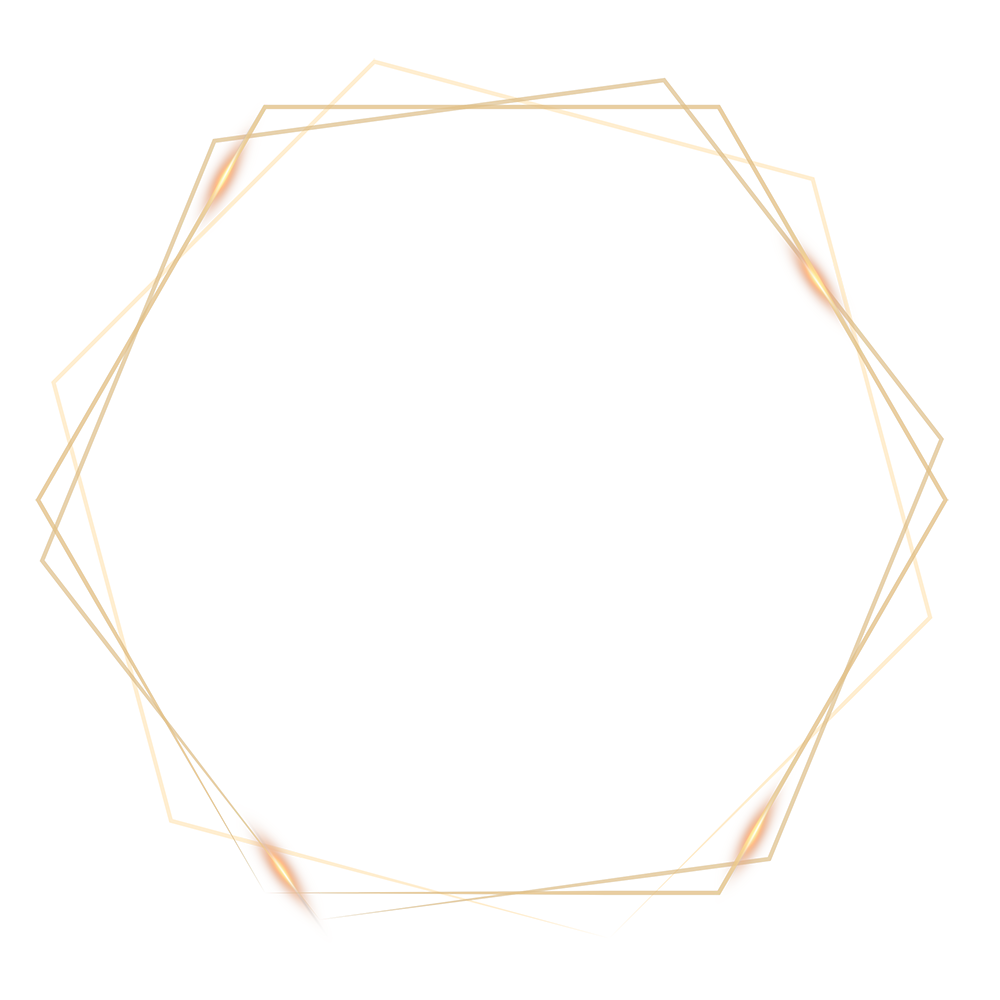
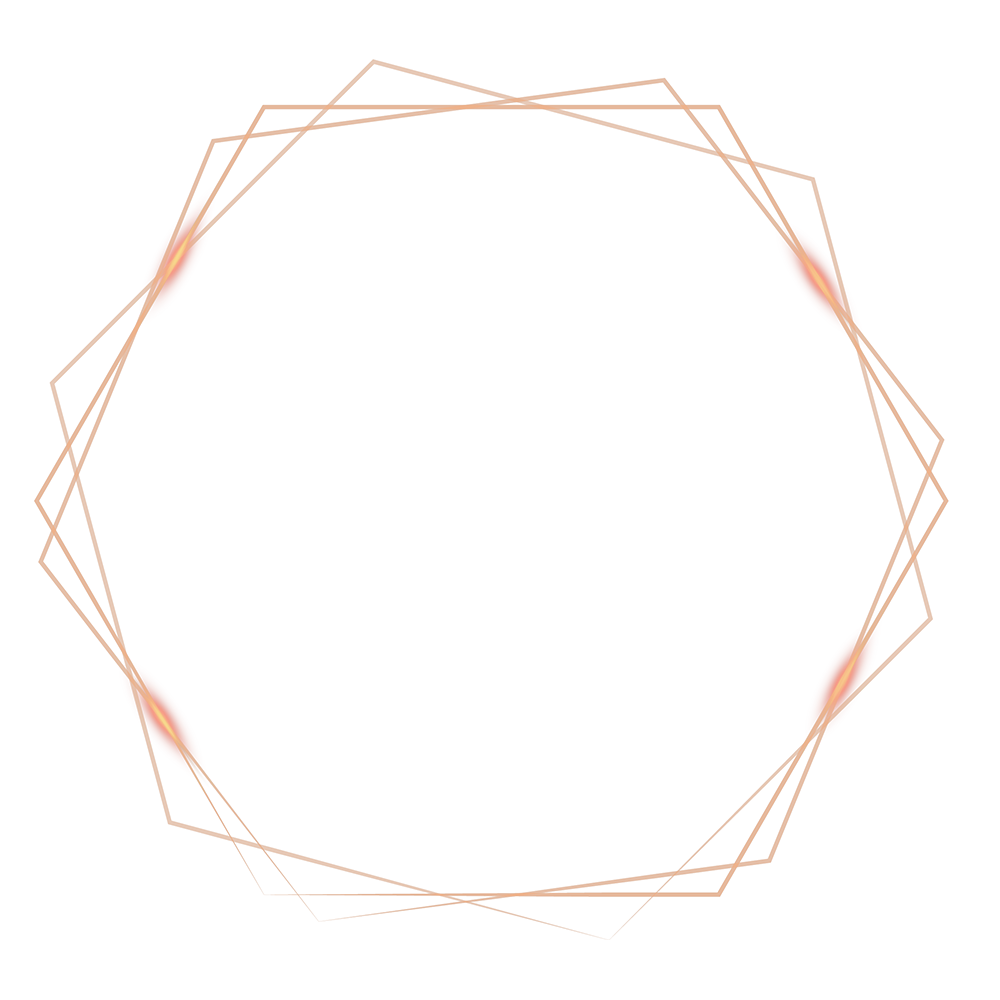
page 1 images changed

diff --git a/app.js b/app.js
@@ -222,7 +222,7 @@ eval("__webpack_require__.r(__webpack_exports__);\n/* harmony export */ __webpac
 /***/ ((__unused_webpack_module, __webpack_exports__, __webpack_require__) => {
 
 "use strict";
-eval("__webpack_require__.r(__webpack_exports__);\n/* harmony export */ __webpack_require__.d(__webpack_exports__, {\n/* harmony export */   \"default\": () => (__WEBPACK_DEFAULT_EXPORT__)\n/* harmony export */ });\n/* harmony import */ var app_debug_js__WEBPACK_IMPORTED_MODULE_0__ = __webpack_require__(/*! app/debug.js */ \"./app/debug.js\");\n/* harmony import */ var app_constants_js__WEBPACK_IMPORTED_MODULE_1__ = __webpack_require__(/*! app/constants.js */ \"./app/constants.js\");\n/* harmony import */ var app_utils__WEBPACK_IMPORTED_MODULE_2__ = __webpack_require__(/*! app/utils */ \"./app/utils/index.js\");\n/* harmony import */ var app_resource_loader__WEBPACK_IMPORTED_MODULE_3__ = __webpack_require__(/*! app/resource-loader */ \"./app/resource-loader/index.js\");\n/* harmony import */ var app_canvascontrol_js__WEBPACK_IMPORTED_MODULE_4__ = __webpack_require__(/*! app/canvascontrol.js */ \"./app/canvascontrol.js\");\n/* harmony import */ var _firework_js__WEBPACK_IMPORTED_MODULE_5__ = __webpack_require__(/*! ./firework.js */ \"./app/stages/01-intro/firework.js\");\n/* harmony import */ var app_canvas_widgets_button_js__WEBPACK_IMPORTED_MODULE_6__ = __webpack_require__(/*! app/canvas-widgets/button.js */ \"./app/canvas-widgets/button.js\");\n\n\n\n\n\n\n\n\n\n\n\nconst event_of = __webpack_require__(/*! app/events.js */ \"./app/events.js\");\n\n//////////////////////////////////////////////////////////////////////////////\n\nclass IntroCanvasController extends app_canvascontrol_js__WEBPACK_IMPORTED_MODULE_4__[\"default\"] {\n\n    constructor({canvas, images, bgcontroller, callback}){\n        super(canvas);\n\n        this.fwcontroller = new _firework_js__WEBPACK_IMPORTED_MODULE_5__[\"default\"](canvas, this.ctx);\n\n        this.callback = callback;\n        this.images = images;\n        this.bgcontroller = bgcontroller;\n\n        this.rot_center_x = this.canvas.width * 0.5;\n        this.rot_center_y = this.canvas.width * 0.7;\n        this.glow_center_x = this.canvas.width * 0.5;\n        this.glow_center_y = this.canvas.width * 0.75;\n        this.logo_center_x = this.canvas.width * 0.46;\n        this.logo_center_y = this.canvas.width * 0.755;\n        this.slogan_center_x = this.canvas.width * 0.5;\n        this.slogan_center_y = this.canvas.height*0.25+this.canvas.width * 0.87;\n        this.button_center_x = this.canvas.width * 0.5;\n        this.button_center_y = this.canvas.height * 0.5 + this.canvas.width * 0.6;\n\n        \n        this.scale_introtitle = this.canvas.width / this.images[\"introtitle\"].width * 0.75;\n//      this.scale_glow = Math.min(0.925 * this.canvas.width, 0.40 * this.canvas.height) / this.images[\"glow\"].width;\n        this.scale_glow = this.canvas.width / this.images[\"glow\"].width;\n//        console.log(this.scale_glow);\n        this.scale_hex_bold = this.canvas.width / this.images[\"hex-bold\"].width * 0.925;\n        this.scale_hex_thin = this.canvas.width / this.images[\"hex-thin\"].width * 0.925;\n        this.scale_slogan = this.canvas.width / this.images[\"slogan\"].width * 0.6;\n        this.scale_button = this.canvas.width / this.images[\"button\"].width * 0.3;\n\n        this.button = new app_canvas_widgets_button_js__WEBPACK_IMPORTED_MODULE_6__[\"default\"]({\n            image: this.images[\"button\"],\n            image_pressed_down: this.images[\"button-down\"],\n            x0: this.button_center_x - this.scale_button * this.images[\"button\"].width / 2,\n            y0: this.button_center_y - this.scale_button * this.images[\"button\"].height / 2,\n            x1: this.button_center_x + this.scale_button * this.images[\"button\"].width / 2,\n            y1: this.button_center_y + this.scale_button * this.images[\"button\"].height / 2,\n        });\n\n        const self = this;\n/*        function add_firework(){\n            self.fwcontroller.add_firework(\n                utils.random_range(0, self.canvas.width),\n                utils.random_range(0, self.canvas.height)\n            );\n            if(!self.destroyed){\n                setTimeout(add_firework, utils.random_range(100, 1000));\n            }\n        }\n        add_firework();*/\n    }\n\n    _draw_bg({ stars_alpha= 1.0 }){\n        const stars = this.images[\"stars\"];\n        this.ctx.drawImage(\n            this.bgcontroller.bgimg,\n            0,  // sx = 0\n            this.bgcontroller.get_y(), // sy = whatever\n            this.bgcontroller.bgimg.width, // sWidth\n            this.bgcontroller.unit_height, // sHeight\n            0,  // dx = 0\n            0,  // dy = 0\n            this.canvas.width,\n            this.canvas.height\n        );\n        this.ctx.globalAlpha = stars_alpha;\n        this.ctx.drawImage(\n            stars,\n            0, // dx\n            -this.bgcontroller.get_y(), // dy\n            this.canvas.width,\n            this.canvas.width/stars.width * stars.height\n        );\n        this.ctx.globalAlpha = 1;\n    }\n\n    exit_animation_frame(t){\n        if(undefined === this.exit_frame_t0) this.exit_frame_t0 = t;\n        const elapsed_time = t - this.exit_frame_t0;\n        const Tmax = app_constants_js__WEBPACK_IMPORTED_MODULE_1__[\"default\"].BACKGROUND_SWITCH_DURATION;\n\n        // clear whole canvas\n        this.ctx_clearall();\n        // draw bg\n        this._draw_bg({ stars_alpha: 1- elapsed_time / Tmax });\n\n        return elapsed_time < app_constants_js__WEBPACK_IMPORTED_MODULE_1__[\"default\"].BACKGROUND_SWITCH_DURATION;\n    }\n    \n\n    animation_frame(t, dt){\n        if(!this.flag_animation_playing) return;\n\n        const elapsed_time = t; //new Date().getTime() - this.starttime;\n        const rotation = elapsed_time / 1000 * 0.8;\n\n        // clear whole canvas\n        this.ctx_clearall();\n        // draw bg\n        this._draw_bg({});\n\n        this.ctx_drawImage(\n            this.images[\"glow\"],\n            this.glow_center_x,\n            this.glow_center_y,\n            this.scale_glow,\n            0\n        );\n        this.ctx_reset_transform();\n\n\n        this.ctx_drawImage(\n            this.images[\"hex-thin\"],\n            this.rot_center_x,\n            this.rot_center_y,\n            this.scale_hex_thin,\n            -rotation\n        );\n        this.ctx_reset_transform();\n    \n        this.ctx_drawImage(\n            this.images[\"hex-bold\"],\n            this.rot_center_x,\n            this.rot_center_y,\n            this.scale_hex_bold,\n            rotation\n        );\n        this.ctx_reset_transform();\n\n\n\n\n        this.ctx_drawImage(\n            this.images[\"introtitle\"],\n            this.logo_center_x,\n            this.logo_center_y,\n            this.scale_introtitle,\n            0\n        );\n        this.ctx_reset_transform();\n\n        this.ctx_drawImage(\n            this.images[\"slogan\"],\n            this.slogan_center_x,\n            this.slogan_center_y,\n            this.scale_slogan,\n            0\n        );\n        this.ctx_reset_transform();\n\n\n        this.button.draw(this.ctx);\n/*        this.ctx_drawImage(\n            this.images[\"button\"],\n            this.button_center_x,\n            this.button_center_y,\n            this.scale_button,\n            0\n        );*/\n        this.ctx_reset_transform();\n\n\n//        this.rotation += 0.005;\n\n        //this.fwcontroller.animation_frame(t, dt);\n        \n\n        return true;\n    }\n\n    bind_events(){\n\n        const ec = event_of(\"canvas\");\n\n        ec.on(\"touchstart\", (e)=>{\n//            this.callback();\n            e.preventDefault();\n        });\n\n        this.button.on(\"pressed\", (e)=>{\n            this.callback()\n            e.preventDefault();\n            e.stopPropagation();\n        });\n\n    }\n}\n\n\n\n\n\n\n//////////////////////////////////////////////////////////////////////////////\n\n\nasync function interaction({\n    canvas,\n    callback,\n    bgcontroller,\n    app\n}){\n    bgcontroller.scroll_to_stage(0);\n   \n    const images = {\n        \"hex-bold\": await (0,app_resource_loader__WEBPACK_IMPORTED_MODULE_3__.get_image)(\"hex_bold\"),\n        \"hex-thin\": await (0,app_resource_loader__WEBPACK_IMPORTED_MODULE_3__.get_image)(\"hex_thin\"),\n        \"glow\": await (0,app_resource_loader__WEBPACK_IMPORTED_MODULE_3__.get_image)(\"glow\"),\n\n        \"stars\": await (0,app_resource_loader__WEBPACK_IMPORTED_MODULE_3__.get_image)(\"intro_stars\"),\n        \"introtitle\": await (0,app_resource_loader__WEBPACK_IMPORTED_MODULE_3__.get_image)(\"intro_title\"),\n        \"slogan\": await (0,app_resource_loader__WEBPACK_IMPORTED_MODULE_3__.get_image)(\"intro_slogan\"),\n        \"button\": await (0,app_resource_loader__WEBPACK_IMPORTED_MODULE_3__.get_image)(\"intro_button\"),\n        \"button-down\": await (0,app_resource_loader__WEBPACK_IMPORTED_MODULE_3__.get_image)(\"intro_button_pressed\"),\n    };\n    const canvascontrol = new IntroCanvasController({\n        canvas,\n        images,\n        bgcontroller,\n        callback\n    });\n    canvascontrol.start_animation();\n\n///////////////\n    if((0,app_debug_js__WEBPACK_IMPORTED_MODULE_0__[\"default\"])()){\n        if((0,app_debug_js__WEBPACK_IMPORTED_MODULE_0__[\"default\"])('stage') && (0,app_debug_js__WEBPACK_IMPORTED_MODULE_0__[\"default\"])('stage') > 1){\n            callback();\n        }\n    }\n//////////////\n\n    await app_utils__WEBPACK_IMPORTED_MODULE_2__[\"default\"].until(()=>app.intro_done === true);\n\n    bgcontroller.scroll_to_stage(1);\n    await canvascontrol.destroy();\n\n}\n\n\n\n\n//////////////////////////////////////////////////////////////////////////////\n/* harmony default export */ const __WEBPACK_DEFAULT_EXPORT__ = ({\n    interaction,\n});\n\n\n//# sourceURL=webpack://csaegress-h5-app/./app/stages/01-intro/index.js?");
+eval("__webpack_require__.r(__webpack_exports__);\n/* harmony export */ __webpack_require__.d(__webpack_exports__, {\n/* harmony export */   \"default\": () => (__WEBPACK_DEFAULT_EXPORT__)\n/* harmony export */ });\n/* harmony import */ var app_debug_js__WEBPACK_IMPORTED_MODULE_0__ = __webpack_require__(/*! app/debug.js */ \"./app/debug.js\");\n/* harmony import */ var app_constants_js__WEBPACK_IMPORTED_MODULE_1__ = __webpack_require__(/*! app/constants.js */ \"./app/constants.js\");\n/* harmony import */ var app_utils__WEBPACK_IMPORTED_MODULE_2__ = __webpack_require__(/*! app/utils */ \"./app/utils/index.js\");\n/* harmony import */ var app_resource_loader__WEBPACK_IMPORTED_MODULE_3__ = __webpack_require__(/*! app/resource-loader */ \"./app/resource-loader/index.js\");\n/* harmony import */ var app_canvascontrol_js__WEBPACK_IMPORTED_MODULE_4__ = __webpack_require__(/*! app/canvascontrol.js */ \"./app/canvascontrol.js\");\n/* harmony import */ var _firework_js__WEBPACK_IMPORTED_MODULE_5__ = __webpack_require__(/*! ./firework.js */ \"./app/stages/01-intro/firework.js\");\n/* harmony import */ var app_canvas_widgets_button_js__WEBPACK_IMPORTED_MODULE_6__ = __webpack_require__(/*! app/canvas-widgets/button.js */ \"./app/canvas-widgets/button.js\");\n\n\n\n\n\n\n\n\n\n\n\nconst event_of = __webpack_require__(/*! app/events.js */ \"./app/events.js\");\n\n//////////////////////////////////////////////////////////////////////////////\n\nclass IntroCanvasController extends app_canvascontrol_js__WEBPACK_IMPORTED_MODULE_4__[\"default\"] {\n\n    constructor({canvas, images, bgcontroller, callback}){\n        super(canvas);\n\n        this.fwcontroller = new _firework_js__WEBPACK_IMPORTED_MODULE_5__[\"default\"](canvas, this.ctx);\n\n        this.callback = callback;\n        this.images = images;\n        this.bgcontroller = bgcontroller;\n\n        this.rot_center_x = this.canvas.width * 0.5;\n        this.rot_center_y = this.canvas.width * 0.7;\n        this.glow_center_x = this.canvas.width * 0.4580;\n        this.glow_center_y = this.canvas.width * 0.7450;\n        this.logo_center_x = this.canvas.width * 0.45;\n        this.logo_center_y = this.canvas.width * 0.755;\n        this.slogan_center_x = this.canvas.width * 0.5;\n        this.slogan_center_y = this.canvas.height*0.25+this.canvas.width * 0.87;\n        this.button_center_x = this.canvas.width * 0.5;\n        this.button_center_y = this.canvas.height * 0.4571 + 0.6314 *this.canvas.width;\n\n        \n        this.scale_introtitle = this.canvas.width / this.images[\"introtitle\"].width * 0.75;\n//      this.scale_glow = Math.min(0.925 * this.canvas.width, 0.40 * this.canvas.height) / this.images[\"glow\"].width;\n        this.scale_glow = this.canvas.width / this.images[\"glow\"].width * 1.5830;\n//        console.log(this.scale_glow);\n        this.scale_hex_bold = this.canvas.width / this.images[\"hex-bold\"].width * 0.926;\n        this.scale_hex_thin = this.canvas.width / this.images[\"hex-thin\"].width * 0.926;\n        this.scale_slogan = this.canvas.width / this.images[\"slogan\"].width * 0.6;\n        this.scale_button = this.canvas.width / this.images[\"button\"].width * 0.3;\n\n        this.button = new app_canvas_widgets_button_js__WEBPACK_IMPORTED_MODULE_6__[\"default\"]({\n            image: this.images[\"button\"],\n            image_pressed_down: this.images[\"button-down\"],\n            x0: this.button_center_x - this.scale_button * this.images[\"button\"].width / 2,\n            y0: this.button_center_y - this.scale_button * this.images[\"button\"].height / 2,\n            x1: this.button_center_x + this.scale_button * this.images[\"button\"].width / 2,\n            y1: this.button_center_y + this.scale_button * this.images[\"button\"].height / 2,\n        });\n\n        const self = this;\n/*        function add_firework(){\n            self.fwcontroller.add_firework(\n                utils.random_range(0, self.canvas.width),\n                utils.random_range(0, self.canvas.height)\n            );\n            if(!self.destroyed){\n                setTimeout(add_firework, utils.random_range(100, 1000));\n            }\n        }\n        add_firework();*/\n    }\n\n    _draw_bg({ stars_alpha= 1.0 }){\n        const stars = this.images[\"stars\"];\n        this.ctx.drawImage(\n            this.bgcontroller.bgimg,\n            0,  // sx = 0\n            this.bgcontroller.get_y(), // sy = whatever\n            this.bgcontroller.bgimg.width, // sWidth\n            this.bgcontroller.unit_height, // sHeight\n            0,  // dx = 0\n            0,  // dy = 0\n            this.canvas.width,\n            this.canvas.height\n        );\n        this.ctx.globalAlpha = stars_alpha;\n        this.ctx.drawImage(\n            stars,\n            0, // dx\n            -this.bgcontroller.get_y(), // dy\n            this.canvas.width,\n            this.canvas.width/stars.width * stars.height\n        );\n        this.ctx.globalAlpha = 1;\n    }\n\n    exit_animation_frame(t){\n        if(undefined === this.exit_frame_t0) this.exit_frame_t0 = t;\n        const elapsed_time = t - this.exit_frame_t0;\n        const Tmax = app_constants_js__WEBPACK_IMPORTED_MODULE_1__[\"default\"].BACKGROUND_SWITCH_DURATION;\n\n        // clear whole canvas\n        this.ctx_clearall();\n        // draw bg\n        this._draw_bg({ stars_alpha: 1- elapsed_time / Tmax });\n\n        return elapsed_time < app_constants_js__WEBPACK_IMPORTED_MODULE_1__[\"default\"].BACKGROUND_SWITCH_DURATION;\n    }\n    \n\n    animation_frame(t, dt){\n        if(!this.flag_animation_playing) return;\n\n        const elapsed_time = t; //new Date().getTime() - this.starttime;\n        const rotation = elapsed_time / 1000 * 0.8;\n\n        // clear whole canvas\n        this.ctx_clearall();\n        // draw bg\n        this._draw_bg({});\n\n        this.ctx_drawImage(\n            this.images[\"glow\"],\n            this.glow_center_x,\n            this.glow_center_y,\n            this.scale_glow,\n            0\n        );\n        this.ctx_reset_transform();\n\n\n        this.ctx_drawImage(\n            this.images[\"hex-thin\"],\n            this.rot_center_x,\n            this.rot_center_y,\n            this.scale_hex_thin,\n            -rotation\n        );\n        this.ctx_reset_transform();\n    \n        this.ctx_drawImage(\n            this.images[\"hex-bold\"],\n            this.rot_center_x,\n            this.rot_center_y,\n            this.scale_hex_bold,\n            rotation\n        );\n        this.ctx_reset_transform();\n\n\n\n\n        this.ctx_drawImage(\n            this.images[\"introtitle\"],\n            this.logo_center_x,\n            this.logo_center_y,\n            this.scale_introtitle,\n            0\n        );\n        this.ctx_reset_transform();\n\n        this.ctx_drawImage(\n            this.images[\"slogan\"],\n            this.slogan_center_x,\n            this.slogan_center_y,\n            this.scale_slogan,\n            0\n        );\n        this.ctx_reset_transform();\n\n\n        this.button.draw(this.ctx);\n/*        this.ctx_drawImage(\n            this.images[\"button\"],\n            this.button_center_x,\n            this.button_center_y,\n            this.scale_button,\n            0\n        );*/\n        this.ctx_reset_transform();\n\n\n//        this.rotation += 0.005;\n\n        //this.fwcontroller.animation_frame(t, dt);\n        \n\n        return true;\n    }\n\n    bind_events(){\n\n        const ec = event_of(\"canvas\");\n\n        ec.on(\"touchstart\", (e)=>{\n//            this.callback();\n            e.preventDefault();\n        });\n\n        this.button.on(\"pressed\", (e)=>{\n            this.callback()\n            e.preventDefault();\n            e.stopPropagation();\n        });\n\n    }\n}\n\n\n\n\n\n\n//////////////////////////////////////////////////////////////////////////////\n\n\nasync function interaction({\n    canvas,\n    callback,\n    bgcontroller,\n    app\n}){\n    bgcontroller.scroll_to_stage(0);\n   \n    const images = {\n        \"hex-bold\": await (0,app_resource_loader__WEBPACK_IMPORTED_MODULE_3__.get_image)(\"hex_bold\"),\n        \"hex-thin\": await (0,app_resource_loader__WEBPACK_IMPORTED_MODULE_3__.get_image)(\"hex_thin\"),\n        \"glow\": await (0,app_resource_loader__WEBPACK_IMPORTED_MODULE_3__.get_image)(\"glow\"),\n\n        \"stars\": await (0,app_resource_loader__WEBPACK_IMPORTED_MODULE_3__.get_image)(\"intro_stars\"),\n        \"introtitle\": await (0,app_resource_loader__WEBPACK_IMPORTED_MODULE_3__.get_image)(\"intro_title\"),\n        \"slogan\": await (0,app_resource_loader__WEBPACK_IMPORTED_MODULE_3__.get_image)(\"intro_slogan\"),\n        \"button\": await (0,app_resource_loader__WEBPACK_IMPORTED_MODULE_3__.get_image)(\"intro_button\"),\n        \"button-down\": await (0,app_resource_loader__WEBPACK_IMPORTED_MODULE_3__.get_image)(\"intro_button_pressed\"),\n    };\n    const canvascontrol = new IntroCanvasController({\n        canvas,\n        images,\n        bgcontroller,\n        callback\n    });\n    canvascontrol.start_animation();\n\n///////////////\n    if((0,app_debug_js__WEBPACK_IMPORTED_MODULE_0__[\"default\"])()){\n        if((0,app_debug_js__WEBPACK_IMPORTED_MODULE_0__[\"default\"])('stage') && (0,app_debug_js__WEBPACK_IMPORTED_MODULE_0__[\"default\"])('stage') > 1){\n            callback();\n        }\n    }\n//////////////\n\n    await app_utils__WEBPACK_IMPORTED_MODULE_2__[\"default\"].until(()=>app.intro_done === true);\n\n    bgcontroller.scroll_to_stage(1);\n    await canvascontrol.destroy();\n\n}\n\n\n\n\n//////////////////////////////////////////////////////////////////////////////\n/* harmony default export */ const __WEBPACK_DEFAULT_EXPORT__ = ({\n    interaction,\n});\n\n\n//# sourceURL=webpack://csaegress-h5-app/./app/stages/01-intro/index.js?");
 
 /***/ }),
 

diff --git a/app/stages/01-intro/index.js b/app/stages/01-intro/index.js
@@ -26,22 +26,22 @@ class IntroCanvasController extends CanvasController {
 
         this.rot_center_x = this.canvas.width * 0.5;
         this.rot_center_y = this.canvas.width * 0.7;
-        this.glow_center_x = this.canvas.width * 0.5;
-        this.glow_center_y = this.canvas.width * 0.75;
-        this.logo_center_x = this.canvas.width * 0.46;
+        this.glow_center_x = this.canvas.width * 0.4580;
+        this.glow_center_y = this.canvas.width * 0.7450;
+        this.logo_center_x = this.canvas.width * 0.45;
         this.logo_center_y = this.canvas.width * 0.755;
         this.slogan_center_x = this.canvas.width * 0.5;
         this.slogan_center_y = this.canvas.height*0.25+this.canvas.width * 0.87;
         this.button_center_x = this.canvas.width * 0.5;
-        this.button_center_y = this.canvas.height * 0.5 + this.canvas.width * 0.6;
+        this.button_center_y = this.canvas.height * 0.4571 + 0.6314 *this.canvas.width;
 
         
         this.scale_introtitle = this.canvas.width / this.images["introtitle"].width * 0.75;
 //      this.scale_glow = Math.min(0.925 * this.canvas.width, 0.40 * this.canvas.height) / this.images["glow"].width;
-        this.scale_glow = this.canvas.width / this.images["glow"].width;
+        this.scale_glow = this.canvas.width / this.images["glow"].width * 1.5830;
 //        console.log(this.scale_glow);
-        this.scale_hex_bold = this.canvas.width / this.images["hex-bold"].width * 0.925;
-        this.scale_hex_thin = this.canvas.width / this.images["hex-thin"].width * 0.925;
+        this.scale_hex_bold = this.canvas.width / this.images["hex-bold"].width * 0.926;
+        this.scale_hex_thin = this.canvas.width / this.images["hex-thin"].width * 0.926;
         this.scale_slogan = this.canvas.width / this.images["slogan"].width * 0.6;
         this.scale_button = this.canvas.width / this.images["button"].width * 0.3;
 
